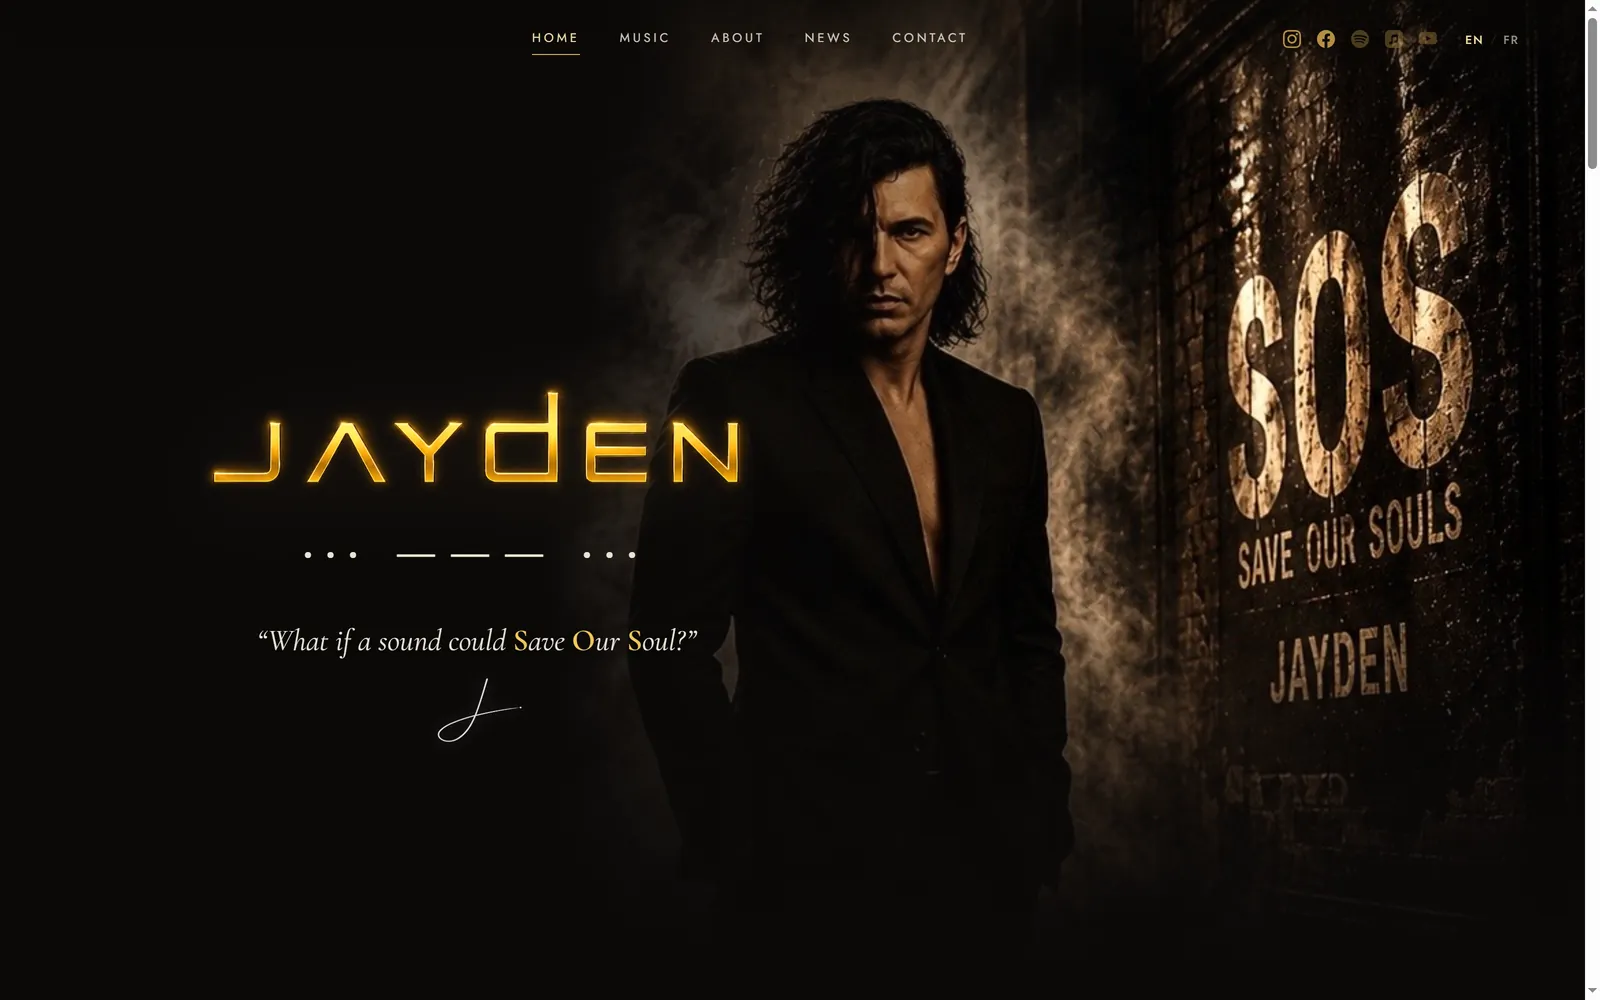
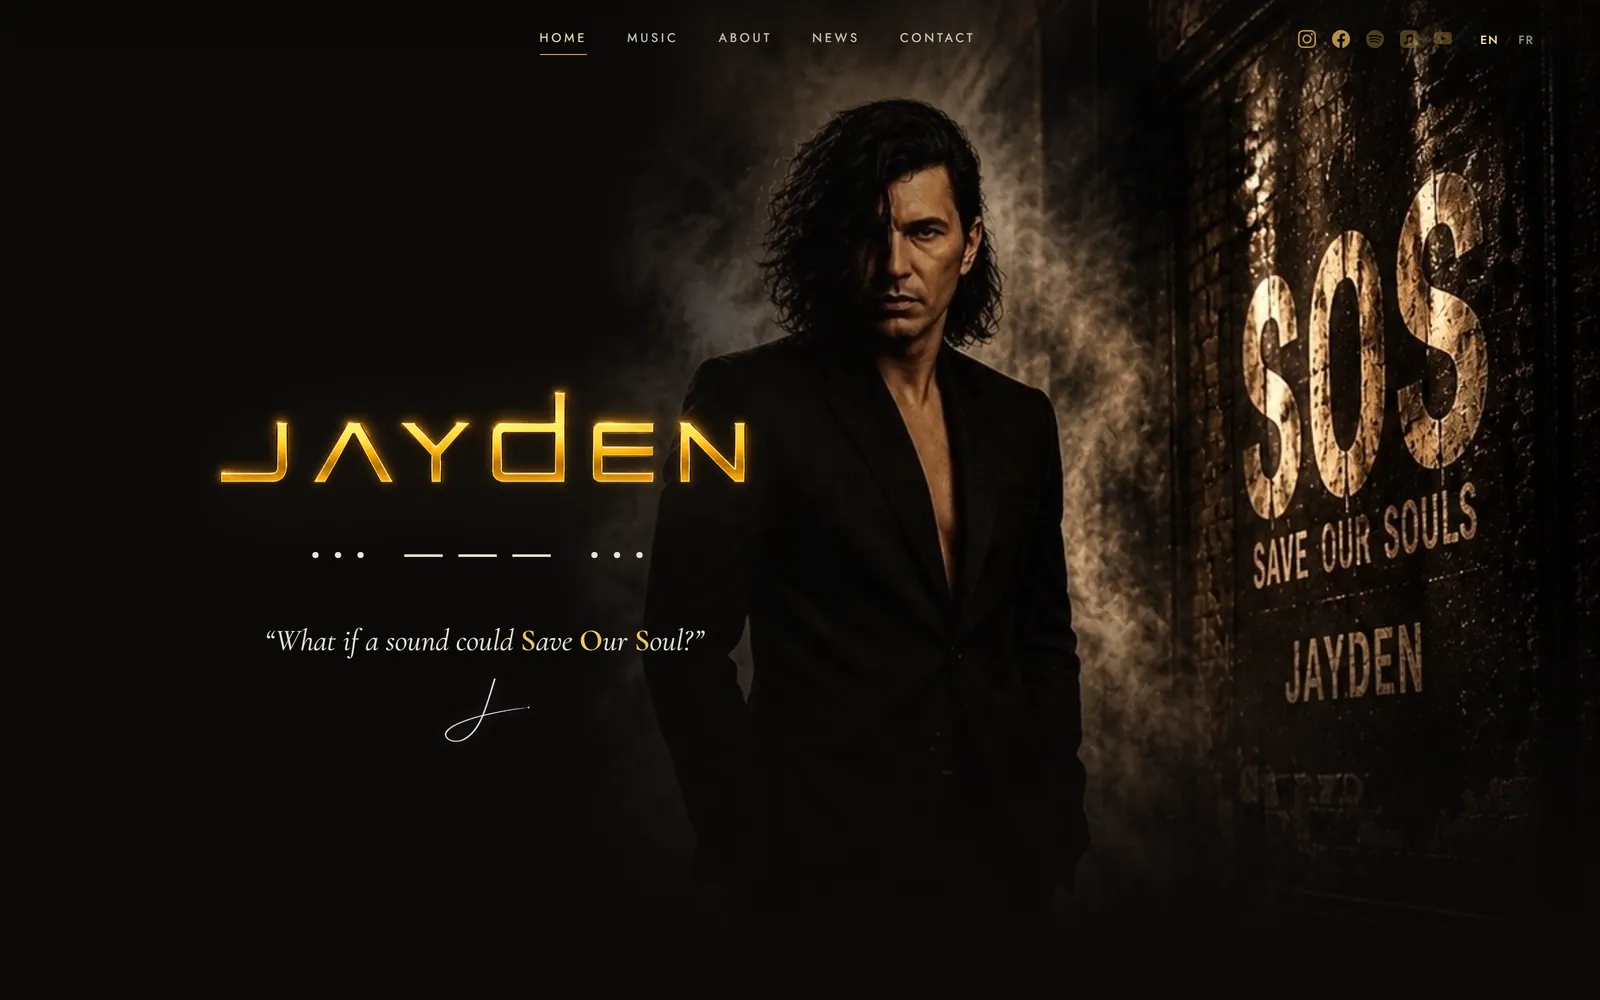
accueil: showcase — retire la barre d'adresse et la scrollbar
- Supprime la barre d'adresse du navigateur (pastilles + URL) : la maquette
  montre l'ecran seul, plus propre (HTML retire + .browser-bar masquee).
- Recapture les 3 apercus desktop avec la scrollbar masquee (elle etait
  incrustee dans l'image). Bump v=7 sur les images, v=20260927f sur home.

Claude-Session: https://claude.ai/code/session_01HK7GEnk6VYbBmj2bm6mjpP

diff --git a/home.js b/home.js
@@ -324,9 +324,9 @@
     var showcase = $("[data-showcase]");
     if (!showcase) return;
     var PROJECTS = [
-      { host: "jaydenmusic.com", url: "https://jaydenmusic.com/", desktop: "img/jaydenmusic-desktop.webp?v=6", mobile: "img/jaydenmusic-mobile.webp?v=6", name: "Jayden", kind: "Site web · Artiste musical", desc: "Site officiel du chanteur Jayden — rock, soul et poésie." },
-      { host: "cronobots.github.io/PIZZAPINO", url: "https://cronobots.github.io/PIZZAPINO/", desktop: "img/pizzapino-desktop.webp?v=6", mobile: "img/pizzapino-mobile.webp?v=6", name: "Pizzeria Pino", kind: "Site web · Restaurant italien", desc: "Restaurant italien & pizzas au feu de bois à Nandrin." },
-      { host: "yumea-wellness.be", url: "https://www.yumea-wellness.be/", desktop: "img/yumea-desktop.webp?v=6", mobile: "img/yumea-mobile.webp?v=6", name: "Yuméa Wellness", kind: "Site web · Bien-être & Head Spa", desc: "Institut de Head Spa japonais et de soins du visage." }
+      { host: "jaydenmusic.com", url: "https://jaydenmusic.com/", desktop: "img/jaydenmusic-desktop.webp?v=7", mobile: "img/jaydenmusic-mobile.webp?v=6", name: "Jayden", kind: "Site web · Artiste musical", desc: "Site officiel du chanteur Jayden — rock, soul et poésie." },
+      { host: "cronobots.github.io/PIZZAPINO", url: "https://cronobots.github.io/PIZZAPINO/", desktop: "img/pizzapino-desktop.webp?v=7", mobile: "img/pizzapino-mobile.webp?v=6", name: "Pizzeria Pino", kind: "Site web · Restaurant italien", desc: "Restaurant italien & pizzas au feu de bois à Nandrin." },
+      { host: "yumea-wellness.be", url: "https://www.yumea-wellness.be/", desktop: "img/yumea-desktop.webp?v=7", mobile: "img/yumea-mobile.webp?v=6", name: "Yuméa Wellness", kind: "Site web · Bien-être & Head Spa", desc: "Institut de Head Spa japonais et de soins du visage." }
     ];
     var warmed = {};
     function warm(i) {

diff --git a/index.html b/index.html
@@ -35,7 +35,7 @@
   <link rel="preload" as="font" type="font/woff2" href="fonts/bricolage-grotesque-latin.woff2" crossorigin />
   <link rel="preload" as="font" type="font/woff2" href="fonts/libre-franklin-latin.woff2" crossorigin />
   <link rel="stylesheet" href="fonts.css?v=20260911" />
-  <link rel="stylesheet" href="home.css?v=20260927e" />
+  <link rel="stylesheet" href="home.css?v=20260927f" />
 
   <script type="application/ld+json">
 {
@@ -436,12 +436,8 @@
             <div class="devices" data-devices>
               <div class="laptop-device">
                 <div class="browser">
-                  <div class="browser-bar" aria-hidden="true">
-                    <span class="browser-dot"></span><span class="browser-dot"></span><span class="browser-dot"></span>
-                    <span class="browser-url" data-sc-url>jaydenmusic.com</span>
-                  </div>
                   <div class="browser-screen">
-                    <img data-sc-desktop src="img/jaydenmusic-desktop.webp?v=6" alt="Jayden — aperçu du site (version ordinateur)" width="1600" height="1000" loading="eager" fetchpriority="high" decoding="async" />
+                    <img data-sc-desktop src="img/jaydenmusic-desktop.webp?v=7" alt="Jayden — aperçu du site (version ordinateur)" width="1600" height="1000" loading="eager" fetchpriority="high" decoding="async" />
                   </div>
                 </div>
               </div>
@@ -827,7 +823,7 @@
     </div>
   </div>
 
-  <script src="home.js?v=20260927e"></script>
+  <script src="home.js?v=20260927f"></script>
   <script src="cookies.js?v=20260911" defer></script>
 </body>
 </html>

diff --git a/home.css b/home.css
@@ -847,10 +847,8 @@ a.field-row:hover .idx { color: var(--heat-txt); }
 .laptop-device { position: relative; transform-style: preserve-3d; transition: transform .3s var(--ease); }
 .browser { border-radius: 12px; overflow: hidden; background: #0c0f15; border: 1px solid var(--line-2);
   box-shadow: 0 44px 100px -34px rgba(0,0,0,.9), 0 0 80px -26px rgba(139,124,255,.5); }
-.browser-bar { display: flex; align-items: center; gap: .5rem; padding: .6rem .9rem; background: linear-gradient(180deg,#191e29,#12161f); border-bottom: 1px solid var(--line); }
-.browser-dot { width: 10px; height: 10px; border-radius: 50%; background: #333b4b; }
-.browser-dot:nth-child(1){ background:#8B7CFF; } .browser-dot:nth-child(2){ background:#4b4e70; } .browser-dot:nth-child(3){ background:#2a2c44; }
-.browser-url { margin-left: .6rem; padding: .22rem .7rem; font-family: var(--f-mono); font-size: .74rem; color: var(--ink-soft); background: rgba(0,0,0,.35); border-radius: 20px; }
+/* Barre d'adresse retirée : la maquette montre l'écran seul, plus propre. */
+.browser-bar { display: none; }
 .browser-screen { position: relative; aspect-ratio: 16/10; background: #05070a; }
 .browser-screen img { width: 100%; height: 100%; object-fit: cover; object-position: top center; transition: opacity .28s var(--ease), transform .5s var(--ease); }
 .phone { position: absolute; right: -5%; bottom: -13%; width: 27%; min-width: 108px;
